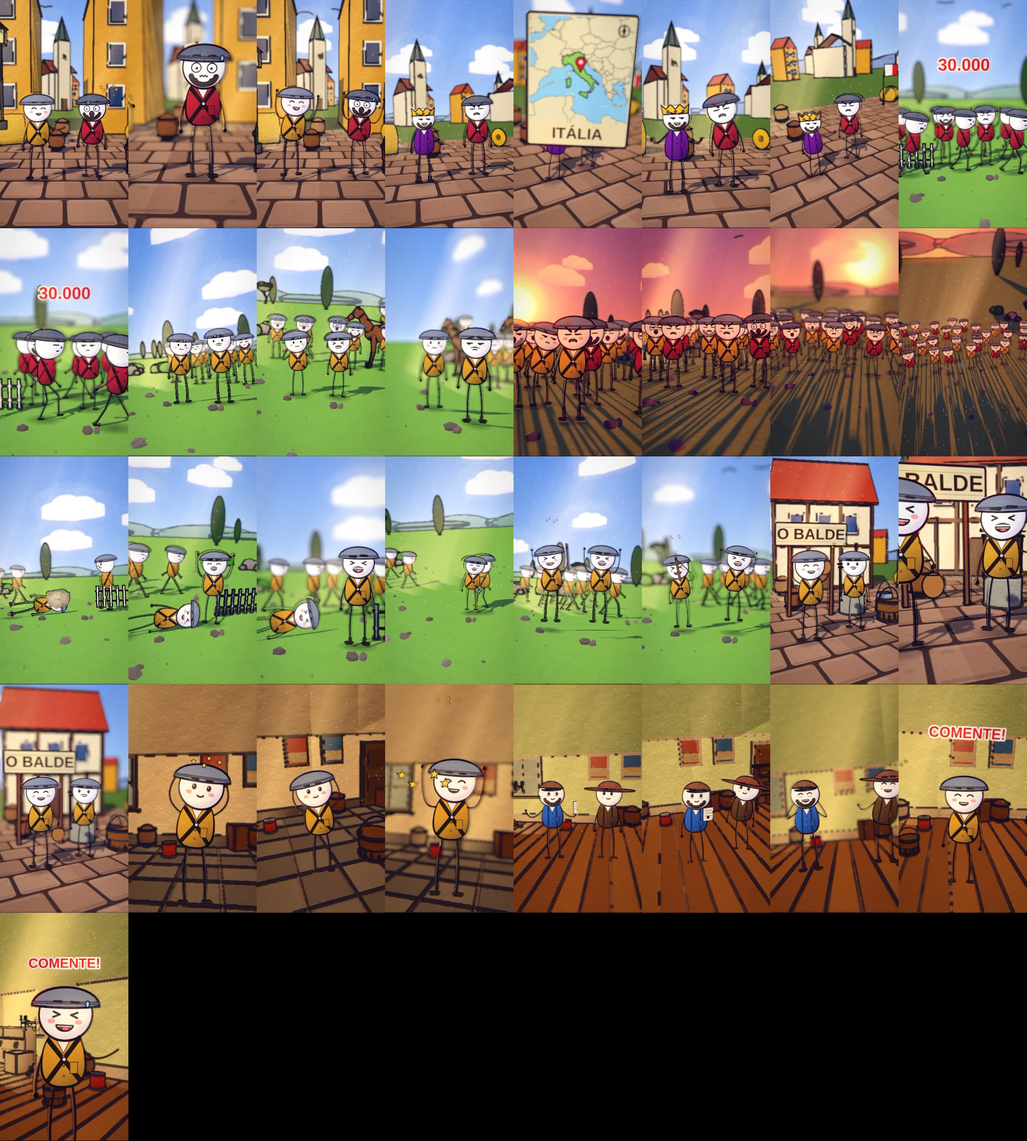
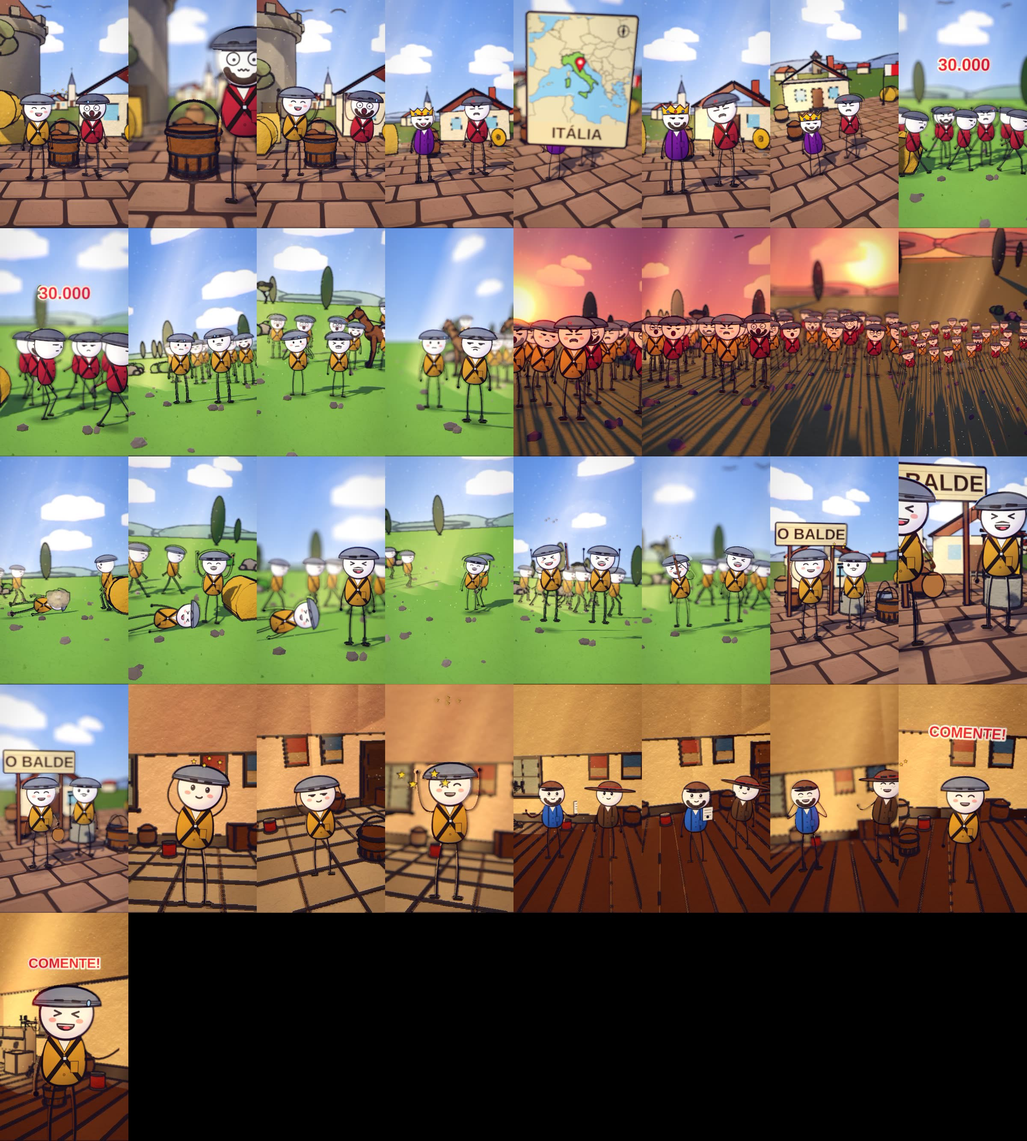
balde1325: refeito com motor corrigido, balde no centro da b0, storyboard aprovado
Claude-Session: https://claude.ai/code/session_01HE8Dy2XpEMgdYAHCmWZFay

diff --git a/ferramenta-shorts/stories/balde1325/timing.js b/ferramenta-shorts/stories/balde1325/timing.js
@@ -1,1 +1,1 @@
-const TIMING = {"total": 1942, "words": [[4, 9, "Duas"], [9, 23, "cidades"], [23, 41, "italianas"], [41, 50, "foram"], [50, 55, "\u00e0"], [55, 64, "guerra,"], [73, 77, "e"], [77, 82, "o"], [82, 87, "pr\u00eamio"], [87, 91, "do"], [91, 105, "vencedor"], [105, 110, "foi"], [110, 115, "um"], [115, 119, "balde"], [119, 124, "de"], [124, 138, "madeira."], [164, 173, "M\u00f3dena"], [173, 178, "e"], [178, 191, "Bolonha"], [191, 209, "disputavam"], [209, 213, "a"], [213, 227, "fronteira"], [227, 236, "havia"], [236, 245, "d\u00e9cadas:"], [252, 259, "M\u00f3dena"], [259, 267, "tinha"], [267, 271, "o"], [271, 285, "imperador"], [285, 293, "como"], [293, 304, "patrono,"], [312, 324, "Bolonha"], [324, 332, "tinha"], [332, 336, "o"], [336, 343, "papa."], [369, 374, "Em"], [374, 378, "mil"], [378, 391, "trezentos"], [391, 395, "e"], [395, 400, "vinte"], [400, 404, "e"], [404, 413, "cinco,"], [422, 436, "Bolonha"], [436, 446, "juntou"], [446, 455, "cerca"], [455, 459, "de"], [459, 469, "trinta"], [469, 473, "mil"], [473, 487, "soldados"], [487, 492, "a"], [492, 497, "p\u00e9"], [497, 501, "e"], [501, 511, "marchou"], [511, 520, "contra"], [520, 525, "o"], [525, 538, "territ\u00f3rio"], [538, 543, "de"], [543, 552, "M\u00f3dena."], [578, 587, "M\u00f3dena"], [587, 597, "tinha"], [597, 607, "menos"], [607, 612, "de"], [612, 622, "oito"], [622, 627, "mil"], [627, 636, "homens,"], [645, 650, "entre"], [650, 667, "cavaleiros"], [667, 671, "e"], [671, 685, "soldados"], [685, 689, "a"], [689, 693, "p\u00e9,"], [701, 705, "e"], [705, 719, "parecia"], [719, 733, "perdida."], [759, 770, "Mas,"], [776, 781, "ao"], [781, 786, "p\u00f4r"], [786, 791, "do"], [791, 796, "sol"], [796, 802, "de"], [802, 807, "quinze"], [807, 812, "de"], [812, 827, "novembro,"], [834, 838, "os"], [838, 854, "modeneses"], [854, 870, "atacaram,"], [881, 886, "e"], [886, 890, "o"], [890, 904, "ex\u00e9rcito"], [904, 914, "gigante"], [914, 918, "de"], [918, 932, "Bolonha"], [932, 942, "fugiu"], [942, 946, "em"], [946, 956, "poucas"], [956, 965, "horas."], [990, 1008, "Morreram"], [1008, 1020, "cerca"], [1020, 1026, "de"], [1026, 1032, "duas"], [1032, 1038, "mil"], [1038, 1050, "pessoas,"], [1058, 1063, "e"], [1063, 1066, "os"], [1066, 1082, "modeneses"], [1082, 1094, "chegaram"], [1094, 1098, "aos"], [1098, 1106, "muros"], [1106, 1110, "de"], [1110, 1122, "Bolonha."], [1148, 1153, "Em"], [1153, 1158, "vez"], [1158, 1163, "de"], [1163, 1177, "invadir,"], [1185, 1197, "fizeram"], [1197, 1206, "uma"], [1206, 1214, "festa"], [1214, 1218, "l\u00e1"], [1218, 1226, "fora"], [1226, 1234, "para"], [1234, 1242, "zombar"], [1242, 1247, "dos"], [1247, 1263, "derrotados."], [1289, 1294, "Na"], [1294, 1304, "volta,"], [1312, 1325, "levaram"], [1325, 1334, "como"], [1334, 1343, "trof\u00e9u"], [1343, 1347, "um"], [1347, 1352, "balde"], [1352, 1356, "de"], [1356, 1370, "madeira,"], [1377, 1390, "tirado"], [1390, 1394, "de"], [1394, 1398, "um"], [1398, 1402, "po\u00e7o"], [1402, 1410, "perto"], [1410, 1414, "da"], [1414, 1423, "porta"], [1423, 1427, "de"], [1427, 1439, "Bolonha."], [1466, 1471, "O"], [1471, 1476, "balde"], [1476, 1487, "ficou"], [1487, 1502, "guardado"], [1502, 1507, "na"], [1507, 1512, "torre"], [1512, 1533, "Ghirlandina,"], [1540, 1545, "em"], [1545, 1555, "M\u00f3dena,"], [1563, 1568, "e"], [1568, 1577, "virou"], [1577, 1587, "s\u00edmbolo"], [1587, 1592, "da"], [1592, 1602, "vit\u00f3ria."], [1627, 1631, "Um"], [1631, 1640, "poeta"], [1640, 1657, "italiano"], [1657, 1670, "transformou"], [1670, 1674, "a"], [1674, 1683, "hist\u00f3ria"], [1683, 1691, "numa"], [1691, 1700, "s\u00e1tira"], [1700, 1713, "famosa,"], [1720, 1736, "escrita"], [1736, 1741, "por"], [1741, 1751, "volta"], [1751, 1756, "de"], [1756, 1761, "mil"], [1761, 1776, "seiscentos"], [1776, 1781, "e"], [1781, 1787, "quinze."], [1813, 1827, "Agora"], [1827, 1832, "n\u00e3o"], [1832, 1837, "deixe"], [1837, 1841, "de"], [1841, 1856, "comentar:"], [1865, 1870, "qual"], [1870, 1875, "deve"], [1875, 1881, "ser"], [1881, 1886, "o"], [1886, 1896, "tema"], [1896, 1902, "do"], [1902, 1912, "pr\u00f3ximo"], [1912, 1918, "v\u00eddeo?"]], "phrases": [[4, 64, "Duas cidades italianas foram \u00e0 guerra,"], [73, 138, "e o pr\u00eamio do vencedor foi um balde de madeira."], [164, 245, "M\u00f3dena e Bolonha disputavam a fronteira havia d\u00e9cadas:"], [252, 304, "M\u00f3dena tinha o imperador como patrono,"], [312, 343, "Bolonha tinha o papa."], [369, 413, "Em mil trezentos e vinte e cinco,"], [422, 552, "Bolonha juntou cerca de trinta mil soldados a p\u00e9 e marchou contra o territ\u00f3rio de M\u00f3dena."], [578, 636, "M\u00f3dena tinha menos de oito mil homens,"], [645, 693, "entre cavaleiros e soldados a p\u00e9,"], [701, 733, "e parecia perdida."], [759, 770, "Mas,"], [776, 827, "ao p\u00f4r do sol de quinze de novembro,"], [834, 870, "os modeneses atacaram,"], [881, 965, "e o ex\u00e9rcito gigante de Bolonha fugiu em poucas horas."], [990, 1050, "Morreram cerca de duas mil pessoas,"], [1058, 1122, "e os modeneses chegaram aos muros de Bolonha."], [1148, 1177, "Em vez de invadir,"], [1185, 1263, "fizeram uma festa l\u00e1 fora para zombar dos derrotados."], [1289, 1304, "Na volta,"], [1312, 1370, "levaram como trof\u00e9u um balde de madeira,"], [1377, 1439, "tirado de um po\u00e7o perto da porta de Bolonha."], [1466, 1533, "O balde ficou guardado na torre Ghirlandina,"], [1540, 1555, "em M\u00f3dena,"], [1563, 1602, "e virou s\u00edmbolo da vit\u00f3ria."], [1627, 1713, "Um poeta italiano transformou a hist\u00f3ria numa s\u00e1tira famosa,"], [1720, 1787, "escrita por volta de mil seiscentos e quinze."], [1813, 1856, "Agora n\u00e3o deixe de comentar:"], [1865, 1918, "qual deve ser o tema do pr\u00f3ximo v\u00eddeo?"]]};
+const TIMING = {"total": 1940, "words": [[5, 9, "Dois"], [9, 23, "vizinhos"], [23, 41, "italianos"], [41, 50, "foram"], [50, 55, "\u00e0"], [55, 64, "guerra,"], [71, 76, "e"], [76, 80, "o"], [80, 85, "pr\u00eamio"], [85, 90, "do"], [90, 104, "vencedor"], [104, 108, "foi"], [108, 113, "um"], [113, 118, "balde"], [118, 122, "de"], [122, 136, "madeira."], [162, 171, "M\u00f3dena"], [171, 176, "e"], [176, 189, "Bolonha"], [189, 207, "disputavam"], [207, 212, "a"], [212, 225, "fronteira"], [225, 234, "havia"], [234, 243, "d\u00e9cadas:"], [250, 258, "M\u00f3dena"], [258, 265, "tinha"], [265, 269, "o"], [269, 284, "imperador"], [284, 291, "como"], [291, 302, "patrono,"], [311, 322, "Bolonha"], [322, 330, "tinha"], [330, 334, "o"], [334, 342, "papa."], [367, 372, "Em"], [372, 376, "mil"], [376, 389, "trezentos"], [389, 394, "e"], [394, 398, "vinte"], [398, 403, "e"], [403, 411, "cinco,"], [421, 434, "Bolonha"], [434, 444, "juntou"], [444, 453, "cerca"], [453, 458, "de"], [458, 467, "trinta"], [467, 471, "mil"], [471, 485, "soldados"], [485, 490, "a"], [490, 495, "p\u00e9"], [495, 499, "e"], [499, 508, "marchou"], [508, 518, "contra"], [518, 522, "o"], [522, 536, "territ\u00f3rio"], [536, 541, "de"], [541, 550, "M\u00f3dena."], [576, 586, "M\u00f3dena"], [586, 596, "tinha"], [596, 605, "menos"], [605, 610, "de"], [610, 620, "oito"], [620, 625, "mil"], [625, 635, "homens,"], [644, 648, "entre"], [648, 665, "cavaleiros"], [665, 670, "e"], [670, 683, "soldados"], [683, 687, "a"], [687, 692, "p\u00e9,"], [699, 704, "e"], [704, 718, "parecia"], [718, 732, "perdida."], [757, 769, "Mas,"], [774, 779, "ao"], [779, 785, "p\u00f4r"], [785, 790, "do"], [790, 795, "sol"], [795, 800, "de"], [800, 805, "quinze"], [805, 810, "de"], [810, 825, "novembro,"], [833, 837, "os"], [837, 853, "modeneses"], [853, 869, "atacaram,"], [879, 884, "e"], [884, 889, "o"], [889, 903, "ex\u00e9rcito"], [903, 912, "gigante"], [912, 917, "de"], [917, 931, "Bolonha"], [931, 940, "fugiu"], [940, 945, "em"], [945, 954, "poucas"], [954, 963, "horas."], [989, 1007, "Morreram"], [1007, 1018, "cerca"], [1018, 1024, "de"], [1024, 1030, "duas"], [1030, 1036, "mil"], [1036, 1048, "pessoas,"], [1057, 1061, "e"], [1061, 1065, "os"], [1065, 1081, "modeneses"], [1081, 1093, "chegaram"], [1093, 1097, "aos"], [1097, 1105, "muros"], [1105, 1109, "de"], [1109, 1121, "Bolonha."], [1147, 1151, "Em"], [1151, 1156, "vez"], [1156, 1161, "de"], [1161, 1175, "invadir,"], [1183, 1196, "fizeram"], [1196, 1204, "uma"], [1204, 1212, "festa"], [1212, 1216, "l\u00e1"], [1216, 1224, "fora"], [1224, 1233, "para"], [1233, 1241, "zombar"], [1241, 1245, "dos"], [1245, 1261, "derrotados."], [1287, 1292, "Na"], [1292, 1303, "volta,"], [1310, 1324, "levaram"], [1324, 1332, "como"], [1332, 1341, "trof\u00e9u"], [1341, 1346, "um"], [1346, 1350, "balde"], [1350, 1355, "de"], [1355, 1368, "madeira,"], [1375, 1388, "tirado"], [1388, 1392, "de"], [1392, 1396, "um"], [1396, 1400, "po\u00e7o"], [1400, 1409, "perto"], [1409, 1413, "da"], [1413, 1421, "porta"], [1421, 1425, "de"], [1425, 1438, "Bolonha."], [1464, 1469, "O"], [1469, 1475, "balde"], [1475, 1485, "ficou"], [1485, 1500, "guardado"], [1500, 1505, "na"], [1505, 1511, "torre"], [1511, 1531, "Ghirlandina,"], [1539, 1544, "em"], [1544, 1554, "M\u00f3dena,"], [1561, 1566, "e"], [1566, 1576, "virou"], [1576, 1585, "s\u00edmbolo"], [1585, 1590, "da"], [1590, 1600, "vit\u00f3ria."], [1625, 1629, "Um"], [1629, 1638, "poeta"], [1638, 1655, "italiano"], [1655, 1668, "transformou"], [1668, 1672, "a"], [1672, 1681, "hist\u00f3ria"], [1681, 1690, "numa"], [1690, 1698, "s\u00e1tira"], [1698, 1711, "famosa,"], [1719, 1734, "escrita"], [1734, 1739, "por"], [1739, 1749, "volta"], [1749, 1754, "de"], [1754, 1759, "mil"], [1759, 1775, "seiscentos"], [1775, 1780, "e"], [1780, 1785, "quinze."], [1811, 1825, "Agora"], [1825, 1830, "n\u00e3o"], [1830, 1835, "deixe"], [1835, 1840, "de"], [1840, 1854, "comentar:"], [1863, 1868, "qual"], [1868, 1874, "deve"], [1874, 1879, "ser"], [1879, 1884, "o"], [1884, 1895, "tema"], [1895, 1900, "do"], [1900, 1911, "pr\u00f3ximo"], [1911, 1916, "v\u00eddeo?"]], "phrases": [[5, 64, "Dois vizinhos italianos foram \u00e0 guerra,"], [71, 136, "e o pr\u00eamio do vencedor foi um balde de madeira."], [162, 243, "M\u00f3dena e Bolonha disputavam a fronteira havia d\u00e9cadas:"], [250, 302, "M\u00f3dena tinha o imperador como patrono,"], [311, 342, "Bolonha tinha o papa."], [367, 411, "Em mil trezentos e vinte e cinco,"], [421, 550, "Bolonha juntou cerca de trinta mil soldados a p\u00e9 e marchou contra o territ\u00f3rio de M\u00f3dena."], [576, 635, "M\u00f3dena tinha menos de oito mil homens,"], [644, 692, "entre cavaleiros e soldados a p\u00e9,"], [699, 732, "e parecia perdida."], [757, 769, "Mas,"], [774, 825, "ao p\u00f4r do sol de quinze de novembro,"], [833, 869, "os modeneses atacaram,"], [879, 963, "e o ex\u00e9rcito gigante de Bolonha fugiu em poucas horas."], [989, 1048, "Morreram cerca de duas mil pessoas,"], [1057, 1121, "e os modeneses chegaram aos muros de Bolonha."], [1147, 1175, "Em vez de invadir,"], [1183, 1261, "fizeram uma festa l\u00e1 fora para zombar dos derrotados."], [1287, 1303, "Na volta,"], [1310, 1368, "levaram como trof\u00e9u um balde de madeira,"], [1375, 1438, "tirado de um po\u00e7o perto da porta de Bolonha."], [1464, 1531, "O balde ficou guardado na torre Ghirlandina,"], [1539, 1554, "em M\u00f3dena,"], [1561, 1600, "e virou s\u00edmbolo da vit\u00f3ria."], [1625, 1711, "Um poeta italiano transformou a hist\u00f3ria numa s\u00e1tira famosa,"], [1719, 1785, "escrita por volta de mil seiscentos e quinze."], [1811, 1854, "Agora n\u00e3o deixe de comentar:"], [1863, 1916, "qual deve ser o tema do pr\u00f3ximo v\u00eddeo?"]]};

diff --git a/ferramenta-shorts/stories/balde1325/spec.js b/ferramenta-shorts/stories/balde1325/spec.js
@@ -27,4 +27,4 @@ const SPEC = {
   ],
 };
 
-// FOLHA3 c4686bc451a9 47 acoes=47 faltando=0
+// FOLHA3 51ef3fa8f0a2 47 acoes=47 faltando=0

diff --git a/ferramenta-shorts/stories/balde1325/folha3_acao.md b/ferramenta-shorts/stories/balde1325/folha3_acao.md
@@ -4,36 +4,36 @@ Catalogo de TODAS as acoes do roteiro, frase por frase, com o instante (segundos
 **Resumo:** 11 frases, 47 acoes catalogadas, 47 com animacao, 0 faltando -> pronto para renderizar
 
 
-## Cena b0 - 0.0s a 5.6s - 16 palavras - plano two
+## Cena b0 - 0.2s a 4.1s - 16 palavras - plano two
 > "Dois vizinhos italianos foram à guerra, e o prêmio do vencedor foi um balde de madeira."
 
 | # | palavra (instante) | acao catalogada | animacao executada | ok? |
 |---|---|---|---|---|
-| 1 | prêmio (3.0s) | EFEITO: stars | estrelinhas + som | OK |
-| 2 | prêmio (3.0s) | ACAO: vence | bracos para cima + brilho | OK |
+| 1 | prêmio (2.7s) | EFEITO: stars | estrelinhas + som | OK |
+| 2 | prêmio (2.7s) | ACAO: vence | bracos para cima + brilho | OK |
 | 3 | - | INTERACAO | susto | OK |
 | 4 | - | ATUACAO | conversar | OK |
 
-## Cena b1 - 5.9s a 12.2s - 18 palavras - plano two
+## Cena b1 - 5.4s a 11.1s - 18 palavras - plano two
 > "Módena e Bolonha disputavam a fronteira havia décadas: Módena tinha o imperador como patrono, Bolonha tinha o papa."
 
 | # | palavra (instante) | acao catalogada | animacao executada | ok? |
 |---|---|---|---|---|
-| 1 | disputavam (7.0s) | ACAO: x_discute | discussao cara a cara (dedo apontado) | OK |
+| 1 | disputavam (6.3s) | ACAO: x_discute | discussao cara a cara (dedo apontado) | OK |
 | 2 | - | INTERACAO | o outro se aproxima | OK |
 | 3 | - | ATUACAO | conversar | OK |
 | 4 | - | MAPA | ITÁLIA | OK |
 
-## Cena b2 - 12.6s a 20.7s - 23 palavras - plano crowd
+## Cena b2 - 12.2s a 18.0s - 23 palavras - plano crowd
 > "Em mil trezentos e vinte e cinco, Bolonha juntou cerca de trinta mil soldados a pé e marchou contra o território de Módena."
 
 | # | palavra (instante) | acao catalogada | animacao executada | ok? |
 |---|---|---|---|---|
-| 1 | juntou (15.6s) | ACAO: pega | levanta/segura | OK |
-| 2 | marchou (18.9s) | ACAO: chega | entra andando pela lateral | OK |
+| 1 | juntou (14.5s) | ACAO: pega | levanta/segura | OK |
+| 2 | marchou (16.6s) | ACAO: chega | entra andando pela lateral | OK |
 | 3 | - | PLACA | 30.000 | OK |
 
-## Cena b3 - 21.1s a 26.7s - 16 palavras - plano group
+## Cena b3 - 19.2s a 23.9s - 16 palavras - plano group
 > "Módena tinha menos de oito mil homens, entre cavaleiros e soldados a pé, e parecia perdida."
 
 | # | palavra (instante) | acao catalogada | animacao executada | ok? |
@@ -42,66 +42,66 @@ Catalogo de TODAS as acoes do roteiro, frase por frase, com o instante (segundos
 | 2 | - | INTERACAO | insiste | OK |
 | 3 | - | ATUACAO | reagir | OK |
 
-## Cena b4 - 27.0s a 34.8s - 22 palavras - plano crowd
+## Cena b4 - 25.2s a 31.8s - 22 palavras - plano crowd
 > "Mas, ao pôr do sol de quinze de novembro, os modeneses atacaram, e o exército gigante de Bolonha fugiu em poucas horas."
 
 | # | palavra (instante) | acao catalogada | animacao executada | ok? |
 |---|---|---|---|---|
-| 1 | atacaram (31.1s) | EFEITO: ring | onda + som | OK |
-| 2 | fugiu (33.7s) | EFEITO: dust | poeira + som | OK |
-| 3 | fugiu (33.7s) | ACAO: corre | sai correndo pela lateral + poeira | OK |
+| 1 | atacaram (28.4s) | EFEITO: ring | onda + som | OK |
+| 2 | fugiu (31.0s) | EFEITO: dust | poeira + som | OK |
+| 3 | fugiu (31.0s) | ACAO: corre | sai correndo pela lateral + poeira | OK |
 | 4 | - | BATALHA | tropa em combate: tiros piscando pela tropa, soldados caindo | OK |
 | 5 | - | ATUACAO | reagir | OK |
 
-## Cena b5 - 35.2s a 40.0s - 14 palavras - plano two
+## Cena b5 - 33.0s a 37.0s - 14 palavras - plano two
 > "Morreram cerca de duas mil pessoas, e os modeneses chegaram aos muros de Bolonha."
 
 | # | palavra (instante) | acao catalogada | animacao executada | ok? |
 |---|---|---|---|---|
-| 1 | Morreram (35.2s) | EFEITO: puff | fumaca + som | OK |
-| 2 | Morreram (35.2s) | ACAO: morre | cai no chao (ou tumulo se morreu anos depois) | OK |
-| 3 | chegaram (38.5s) | EFEITO: dust | poeira + som | OK |
-| 4 | chegaram (38.5s) | ACAO: chega | entra andando pela lateral | OK |
+| 1 | Morreram (33.0s) | EFEITO: puff | fumaca + som | OK |
+| 2 | Morreram (33.0s) | ACAO: morre | cai no chao (ou tumulo se morreu anos depois) | OK |
+| 3 | chegaram (36.0s) | EFEITO: dust | poeira + som | OK |
+| 4 | chegaram (36.0s) | ACAO: chega | entra andando pela lateral | OK |
 | 5 | - | INTERACAO | aproxima-se | OK |
 | 6 | - | ATUACAO | conversar | OK |
 | 7 | - | CHEGADA | alguem entra andando | OK |
 
-## Cena b6 - 40.4s a 44.8s - 13 palavras - plano group
+## Cena b6 - 38.2s a 41.5s - 13 palavras - plano group
 > "Em vez de invadir, fizeram uma festa lá fora para zombar dos derrotados."
 
 | # | palavra (instante) | acao catalogada | animacao executada | ok? |
 |---|---|---|---|---|
-| 1 | invadir (41.5s) | ACAO: chega | entra andando pela lateral | OK |
-| 2 | festa (42.6s) | EFEITO: stars | estrelinhas + som | OK |
-| 3 | festa (42.6s) | ACAO: vence | bracos para cima + brilho | OK |
-| 4 | zombar (44.1s) | ACAO: x_ri | ri de bracos para cima + brilho | OK |
-| 5 | derrotados (44.8s) | ACAO: perde | mao na testa | OK |
+| 1 | invadir (38.7s) | ACAO: chega | entra andando pela lateral | OK |
+| 2 | festa (40.1s) | EFEITO: stars | estrelinhas + som | OK |
+| 3 | festa (40.1s) | ACAO: vence | bracos para cima + brilho | OK |
+| 4 | zombar (41.1s) | ACAO: x_ri | ri de bracos para cima + brilho | OK |
+| 5 | derrotados (41.5s) | ACAO: perde | mao na testa | OK |
 | 6 | - | EMOCAO: laugh | o rosto vira "laugh" na palavra | OK |
 | 7 | - | INTERACAO | pular | OK |
 | 8 | - | ATUACAO | comemorar | OK |
 
-## Cena b7 - 45.2s a 51.5s - 18 palavras - plano two
+## Cena b7 - 42.9s a 47.5s - 18 palavras - plano two
 > "Na volta, levaram como troféu um balde de madeira, tirado de um poço perto da porta de Bolonha."
 
 | # | palavra (instante) | acao catalogada | animacao executada | ok? |
 |---|---|---|---|---|
-| 1 | levaram (45.9s) | ACAO: pega | levanta/segura | OK |
+| 1 | levaram (43.7s) | ACAO: pega | levanta/segura | OK |
 | 2 | - | INTERACAO | vai ate o outro | OK |
 | 3 | - | ATUACAO | conversar | OK |
 | 4 | - | PLACA | O BALDE | OK |
 
-## Cena b8 - 51.9s a 56.7s - 14 palavras - plano close
+## Cena b8 - 48.8s a 53.0s - 14 palavras - plano close
 > "O balde ficou guardado na torre Ghirlandina, em Módena, e virou símbolo da vitória."
 
 | # | palavra (instante) | acao catalogada | animacao executada | ok? |
 |---|---|---|---|---|
-| 1 | guardado (53.0s) | ACAO: pega | levanta/segura | OK |
-| 2 | vitória (56.7s) | EFEITO: stars | estrelinhas + som | OK |
-| 3 | vitória (56.7s) | ACAO: vence | bracos para cima + brilho | OK |
+| 1 | guardado (49.5s) | ACAO: pega | levanta/segura | OK |
+| 2 | vitória (53.0s) | EFEITO: stars | estrelinhas + som | OK |
+| 3 | vitória (53.0s) | ACAO: vence | bracos para cima + brilho | OK |
 | 4 | - | EMOCAO: laugh | o rosto vira "laugh" na palavra | OK |
 | 5 | - | ATUACAO | comemorar | OK |
 
-## Cena b9 - 57.0s a 63.0s - 17 palavras - plano two
+## Cena b9 - 54.2s a 59.3s - 17 palavras - plano two
 > "Um poeta italiano transformou a história numa sátira famosa, escrita por volta de mil seiscentos e quinze."
 
 | # | palavra (instante) | acao catalogada | animacao executada | ok? |
@@ -109,7 +109,7 @@ Catalogo de TODAS as acoes do roteiro, frase por frase, com o instante (segundos
 | 1 | - | INTERACAO | avanca e o outro recua | OK |
 | 2 | - | ATUACAO | conversar | OK |
 
-## Cena b10 - 63.3s a 67.8s - 13 palavras - plano close
+## Cena b10 - 60.4s a 63.7s - 13 palavras - plano close
 > "Agora não deixe de comentar: qual deve ser o tema do próximo vídeo?"
 
 | # | palavra (instante) | acao catalogada | animacao executada | ok? |

diff --git a/ferramenta-shorts/stories/balde1325/revisao_storyboard.md b/ferramenta-shorts/stories/balde1325/revisao_storyboard.md
@@ -1,12 +1,12 @@
-pesquisa: o quadro de referencias mostra um balde de madeira com aros de ferro (o que existe em Modena), a torre Ghirlandina de Modena, telhados de tijolo de Modena e Bologna, retrato de Alessandro Tassoni e a xilogravura do poema La secchia rapita; comparei com o roteiro: troquei o balde cinza de metal por um balde de madeira modelado e descartei os prints modernos (soldados atuais, fotos dos anos 50, moda do seculo 19).
-defeitos procurados: cenario (cidade medieval nas cenas b0 b1 b7, campo limpo na batalha; restam predios amarelos altos e um lampiao no b0 que sao do set medieval e estao em pendencias_motor/B_balde1325.md), epoca (balde de madeira no lugar do de metal, poeta sem coroa, sem armas de fogo), tamanho (soldados do mesmo porte, balde do tamanho de um balde), cortado (ninguem cortado nas bordas), multidao (b2 trinta mil representados por 18 vermelhos de Bolonha, b3 poucos amarelos de Modena para mostrar a desvantagem, b4 batalha com os dois lados), legenda (textos 30.000 e O BALDE ficam acima da faixa da legenda), acao (b4 combate, b5 soldado caido, b6 festa de comemoracao), objeto (balde de madeira aparece em close nas cenas b7 e b8, na b0 ele so aparece de relance).
-b0: CORRIGIDO - duas cidades italianas foram a guerra e o balde de madeira era o premio: antes a frase abria com ano e dizia que o balde causou a guerra -> agora abre com o fato absurdo, sem data, com o balde no cenario.
-b1: OK - Modena e Bolonha disputavam a fronteira havia decadas, nobre de coroa roxa e soldado vermelho discutindo diante do mapa da Italia com o pino.
-b2: CORRIGIDO - Bolonha juntou trinta mil soldados a pe e marchou contra Modena em mil trezentos e vinte e cinco (antes dizia roubo noturno do balde, que e' lenda do poema) -> agora campo aberto com dezoito soldados vermelhos marchando e o texto 30.000.
+pesquisa: o quadro de referencias mostra um balde de madeira com aros de ferro, a torre Ghirlandina de Modena, telhados de tijolo de Modena e Bologna, retrato de Alessandro Tassoni e a xilogravura do poema La secchia rapita; comparei com o roteiro e o balde modelado em madeira com aros esta no lugar do de metal, e o casario baixo com torre e igreja bate com as cidades medievais italianas.
+defeitos procurados: cenario (casario baixo, torre e igreja, sem predio alto e sem lampiao depois da correcao do motor; campo limpo na batalha), epoca (balde de madeira, feno no lugar da cerca branca, sem armas de fogo, poeta sem coroa), tamanho (soldados do mesmo porte, balde proporcional), cortado (ninguem cortado, a cabeca do soldado da b0 esta dentro do quadro), multidao (b2 dezoito vermelhos de Bolonha, b3 poucos amarelos de Modena, b4 batalha com os dois lados), legenda (textos 30.000 e O BALDE acima da faixa da legenda), acao (b4 combate, b5 soldado caido, b6 festa), objeto (balde de madeira em close ja na b0 e de novo nas cenas do poco e da torre).
+b0: CORRIGIDO - dois vizinhos italianos foram a guerra e o premio do vencedor foi um balde de madeira: o balde aparecia so de relance na borda -> agora o balde de madeira com aros fica no centro entre o soldado amarelo e o vermelho, em close.
+b1: OK - Modena e Bolonha disputavam a fronteira havia decadas, nobre de coroa roxa e soldado vermelho diante do mapa da Italia com o pino, casario baixo ao fundo.
+b2: OK - Bolonha juntou cerca de trinta mil soldados a pe e marchou contra Modena: dezoito soldados vermelhos marchando em campo aberto com o texto 30.000.
 b3: OK - Modena tinha menos de oito mil homens e parecia perdida: poucos soldados amarelos nervosos em campo aberto com cavalo ao fundo.
-b4: CORRIGIDO - ao por do sol de quinze de novembro os modeneses atacaram e Bolonha fugiu: a batalha acontece em campo ao por do sol com soldados amarelos e vermelhos dos dois lados, sem tiros nem explosoes.
-b5: OK - morreram cerca de duas mil pessoas e os modeneses chegaram aos muros: um soldado caido de lado no chao com os outros marchando ao fundo.
-b6: CORRIGIDO - em vez de invadir fizeram uma festa para zombar dos derrotados: apareciam predio amarelo e lampiao -> agora campo limpo com os soldados amarelos comemorando de bracos erguidos.
-b7: OK - na volta levaram como troféu um balde de madeira tirado do poco: soldados amarelos rindo ao lado do poco com o balde de madeira com aros e a placa O BALDE.
-b8: CORRIGIDO - o balde ficou guardado na torre Ghirlandina em Modena: o personagem com coroa foi trocado por um soldado de Modena sorrindo ao lado do balde de madeira dentro de uma sala de pedra.
-b9: CORRIGIDO - um poeta italiano transformou a historia numa satira famosa: o poeta aparecia de coroa de rei -> agora dois personagens civis com papel numa sala de madeira.
+b4: OK - ao por do sol de quinze de novembro os modeneses atacaram e Bolonha fugiu em poucas horas: batalha ao por do sol com soldados amarelos e vermelhos, sem tiros nem explosoes.
+b5: OK - morreram cerca de duas mil pessoas e os modeneses chegaram aos muros: um soldado caido de lado com feno ao lado e os outros marchando ao fundo.
+b6: OK - em vez de invadir fizeram uma festa para zombar dos derrotados: soldados amarelos comemorando de bracos erguidos em campo limpo.
+b7: OK - na volta levaram como trofeu um balde de madeira tirado de um poco: soldados rindo junto ao poco com o balde de madeira e a placa O BALDE.
+b8: OK - o balde ficou guardado na torre Ghirlandina em Modena: soldado de Modena sorrindo ao lado do balde de madeira dentro de uma sala de pedra.
+b9: OK - um poeta italiano transformou a historia numa satira famosa: dois civis, um com papel, numa sala de madeira, sem coroa.

diff --git a/ferramenta-shorts/stories/balde1325/cronograma.md b/ferramenta-shorts/stories/balde1325/cronograma.md
@@ -29,13 +29,13 @@ N | Etapa | O que confere | Estado | Proximo passo
 5 | Voz | narracao neural gerada e tempos por palavra | FEITO | 
 6 | Estilo e enquadramento | autoajuste de luz/cor e ajuste de camera de cada tomada | FEITO | 
 7 | Gates | camera OK, todas as tomadas OK, estilo OK | FEITO | 
-8 | Storyboard e grade de acoes | video inteiro em quadros + 1 quadro no instante de cada acao | PENDENTE | 
-9 | Revisao escrita e aprovacao | uma linha por frase conferindo com a folha 3 e com o quadro da pesquisa | BLOQUEADO (etapa anterior pendente) | ./aprovar_storyboard.sh balde1325
-10 | Render | todos os quadros renderizados nesta versao das folhas | BLOQUEADO (etapa anterior pendente) | 
+8 | Storyboard e grade de acoes | video inteiro em quadros + 1 quadro no instante de cada acao | FEITO | 
+9 | Revisao escrita e aprovacao | uma linha por frase conferindo com a folha 3 e com o quadro da pesquisa | FEITO | 
+10 | Render | todos os quadros renderizados nesta versao das folhas | PENDENTE | 
 11 | Montagem e som | trechos + voz + musica + efeitos; volume normalizado | BLOQUEADO (etapa anterior pendente) | 
 12 | Conferencia | conferir.sh sem falha e folha de contato olhada | BLOQUEADO (etapa anterior pendente) | ./conferir.sh balde1325
 13 | Auditoria das acoes | 1 quadro do mp4 em cada palavra de acao | REFAZER (a etapa anterior mudou) | bash auditar_acoes.sh local balde1325 <mp4>
 14 | Entrega | mp4 original 1080x1920 enviado; commit e push | BLOQUEADO (etapa anterior pendente) | 
 
-**Etapa atual:** 8. Storyboard e grade de acoes
+**Etapa atual:** 10. Render
 
